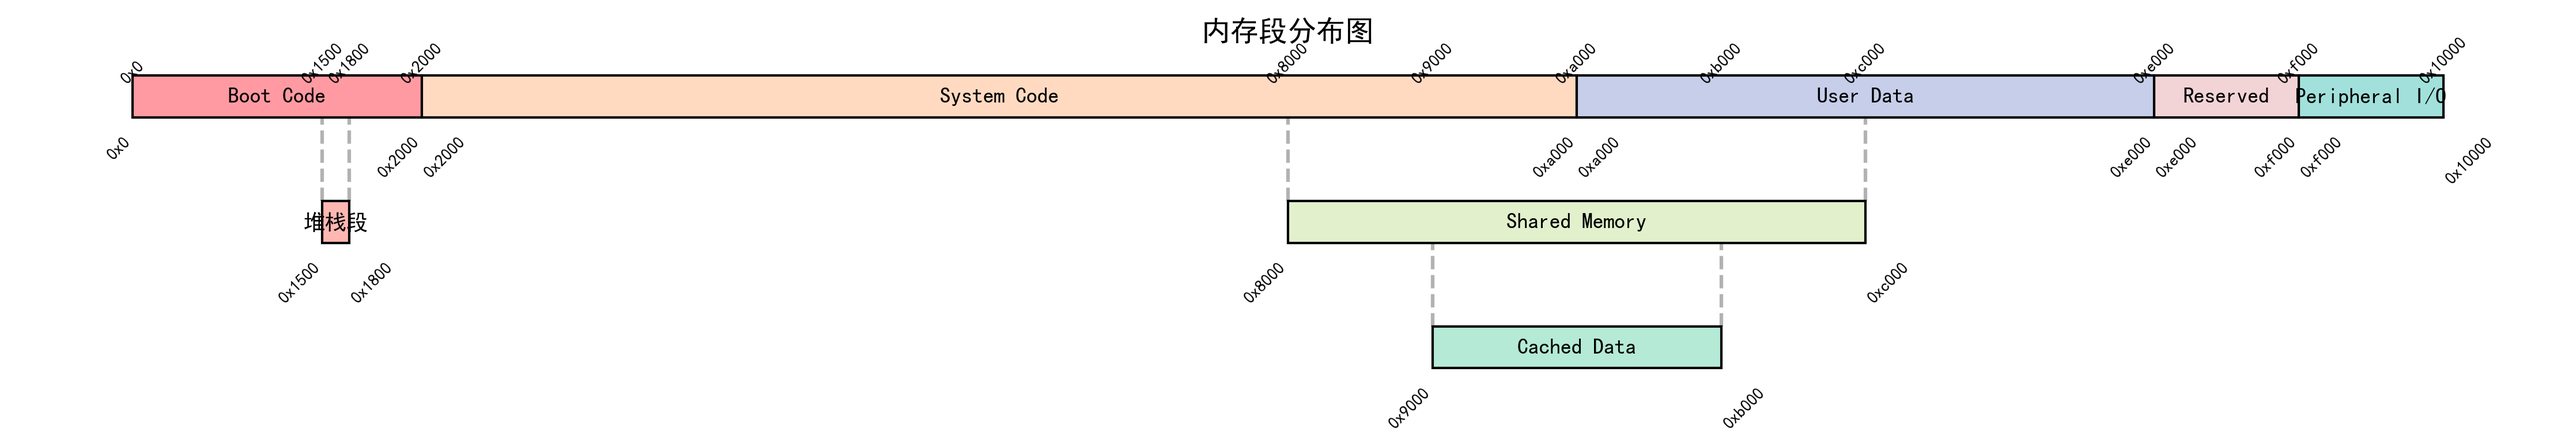
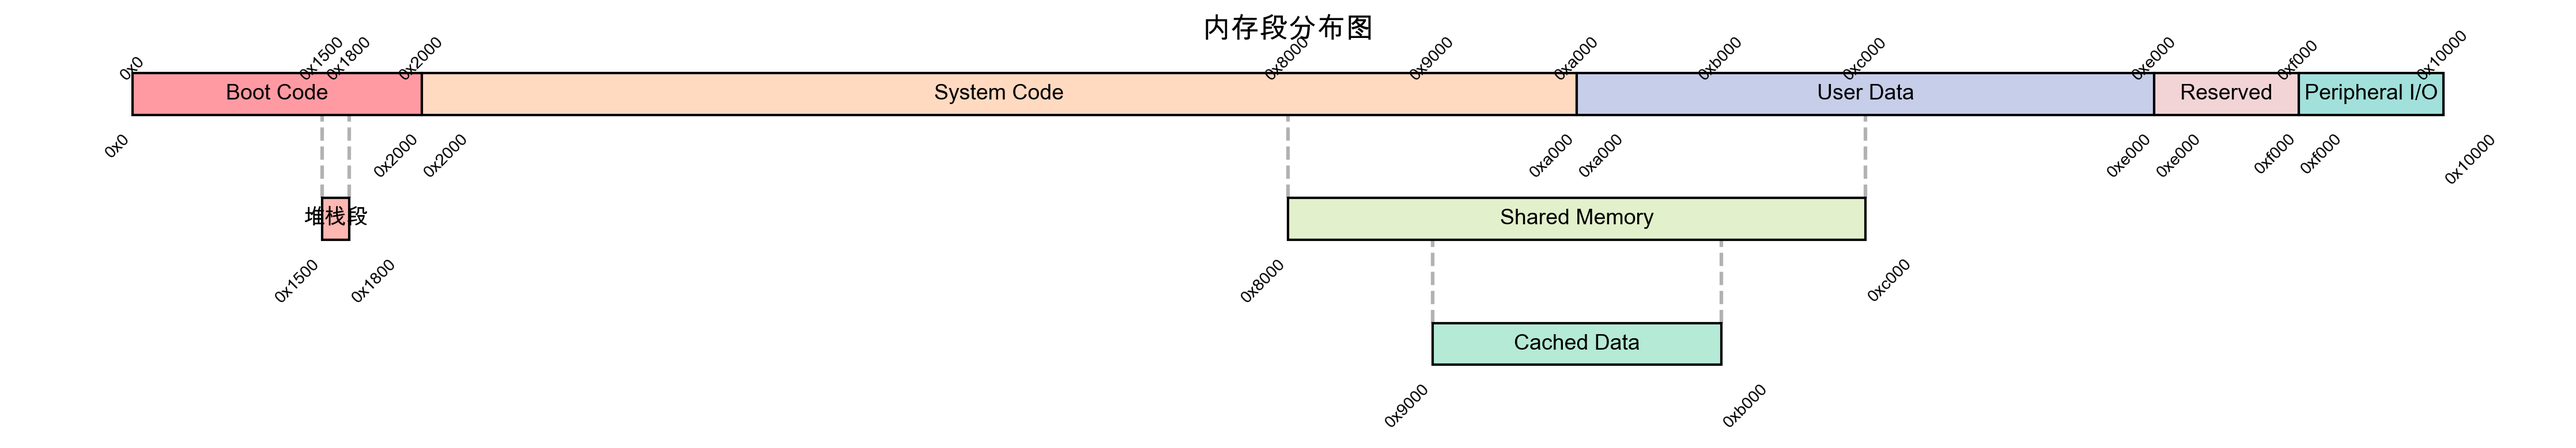
modified for macOS

diff --git a/memmap_visualizer.py b/memmap_visualizer.py
@@ -1,5 +1,6 @@
 import json
 import sys
+import platform
 import matplotlib.pyplot as plt
 import numpy as np
 from typing import List, Dict, Tuple
@@ -7,8 +8,32 @@ import matplotlib.patches as patches
 import matplotlib.colors as mcolors
 
 # 设置中文字体
-plt.rcParams['font.sans-serif'] = ['SimHei']  # 用来正常显示中文标签
+system = platform.system()
+if system == 'Windows':
+    plt.rcParams['font.sans-serif'] = ['SimHei']  # Windows系统
+elif system == 'Darwin':  # macOS
+    # 更新macOS字体列表，按照更可能存在的顺序排列
+    plt.rcParams['font.sans-serif'] = ['Arial Unicode MS', 'Heiti TC', 'STHeiti', 'PingFang SC']
+else:  # Linux等系统
+    plt.rcParams['font.sans-serif'] = ['WenQuanYi Micro Hei', 'Droid Sans Fallback', 'AR PL UMing CN']
 plt.rcParams['axes.unicode_minus'] = False    # 用来正常显示负号
+
+# 额外的字体配置，使用matplotlib的内置回退方案
+try:
+    # 尝试导入matplotlib的字体管理模块
+    from matplotlib import font_manager
+    # 清理字体缓存的现代方法，而不是使用_rebuild
+    import os
+    import shutil
+    cache_dir = font_manager.get_cachedir()
+    if os.path.exists(cache_dir):
+        shutil.rmtree(cache_dir, ignore_errors=True)
+        print(f"已清理字体缓存目录: {cache_dir}")
+    # 让matplotlib重新加载字体
+    font_manager._load_fontmanager()
+except Exception as e:
+    print(f"字体配置警告: {e}")
+    print("将尝试使用默认字体渲染")
 
 def hex_to_int(hex_str):
     """将十六进制字符串转换为整数，同时支持数字类型"""
@@ -95,6 +120,32 @@ def visualize_memory_map(json_file: str):
         '#D4F0F7',  # 浅天蓝
         '#CCEAED',  # 浅蓝绿
     ]
+    
+    # 检查当前字体配置是否支持中文 - 此处简化检测方法
+    can_display_chinese = True
+    try:
+        from matplotlib.font_manager import findfont, FontProperties
+        # 更可靠的方法检测中文字体是否可用
+        fonts = plt.rcParams['font.sans-serif']
+        font_found = False
+        
+        # 尝试找到一个可用的字体
+        for font in fonts:
+            try:
+                fp = FontProperties(family=font)
+                if findfont(fp) != findfont(FontProperties()):
+                    font_found = True
+                    print(f"使用字体: {font}")
+                    break
+            except:
+                continue
+                
+        if not font_found:
+            print("警告: 无法找到合适的中文字体，正在使用系统默认字体")
+            can_display_chinese = False
+    except Exception as e:
+        print(f"字体检测警告: {e}")
+        can_display_chinese = False
     
     # 绘制内存段
     for i, (name, start, end) in enumerate(segments):

diff --git a/README.md b/README.md
@@ -51,6 +51,52 @@ python memmap_visualizer.py input.json
 4. 查看生成的图表：
 程序会生成一个名为 `input_visualization.png` 的图片文件，其中展示了内存段的分布情况。
 
+## 中文字体问题解决方案
+
+如果您在运行程序时看到如下错误：
+```
+findfont: Generic family 'sans-serif' not found because none of the following families were found: SimHei
+```
+
+这表示您的系统中没有安装程序所需的中文字体。解决方法如下：
+
+### Windows用户
+Windows通常已经安装了SimHei(黑体)字体，无需额外操作。
+
+### macOS用户
+macOS用户可以通过以下步骤解决：
+1. 安装系统自带的中文字体：在"系统设置" > "语言与区域" > "键盘偏好设置"中，添加中文输入法
+2. 使用Homebrew安装开源中文字体：
+   ```bash
+   # 安装Homebrew (如果尚未安装)
+   /bin/bash -c "$(curl -fsSL https://raw.githubusercontent.com/Homebrew/install/HEAD/install.sh)"
+   
+   # 安装Source Han Sans字体
+   brew tap homebrew/cask-fonts
+   brew install --cask font-sourcehan-sans
+   ```
+3. 或手动安装字体：
+   - 下载[思源黑体](https://github.com/adobe-fonts/source-han-sans/releases/latest)
+   - 双击下载的字体文件安装到系统
+   
+4. 安装字体后重新启动程序
+
+### Linux用户
+Linux用户可以安装相应的中文字体包：
+- Ubuntu/Debian：
+  ```bash
+  sudo apt-get install fonts-wqy-microhei
+  ```
+- CentOS/Fedora：
+  ```bash
+  sudo yum install wqy-microhei-fonts
+  ```
+
+安装字体后，可能需要清除matplotlib的字体缓存：
+```bash
+rm -rf ~/.matplotlib/*.cache
+```
+
 ## 注意事项
 
 - 地址可以使用十六进制字符串（如"0x1000"）或直接使用数字（如4096）
